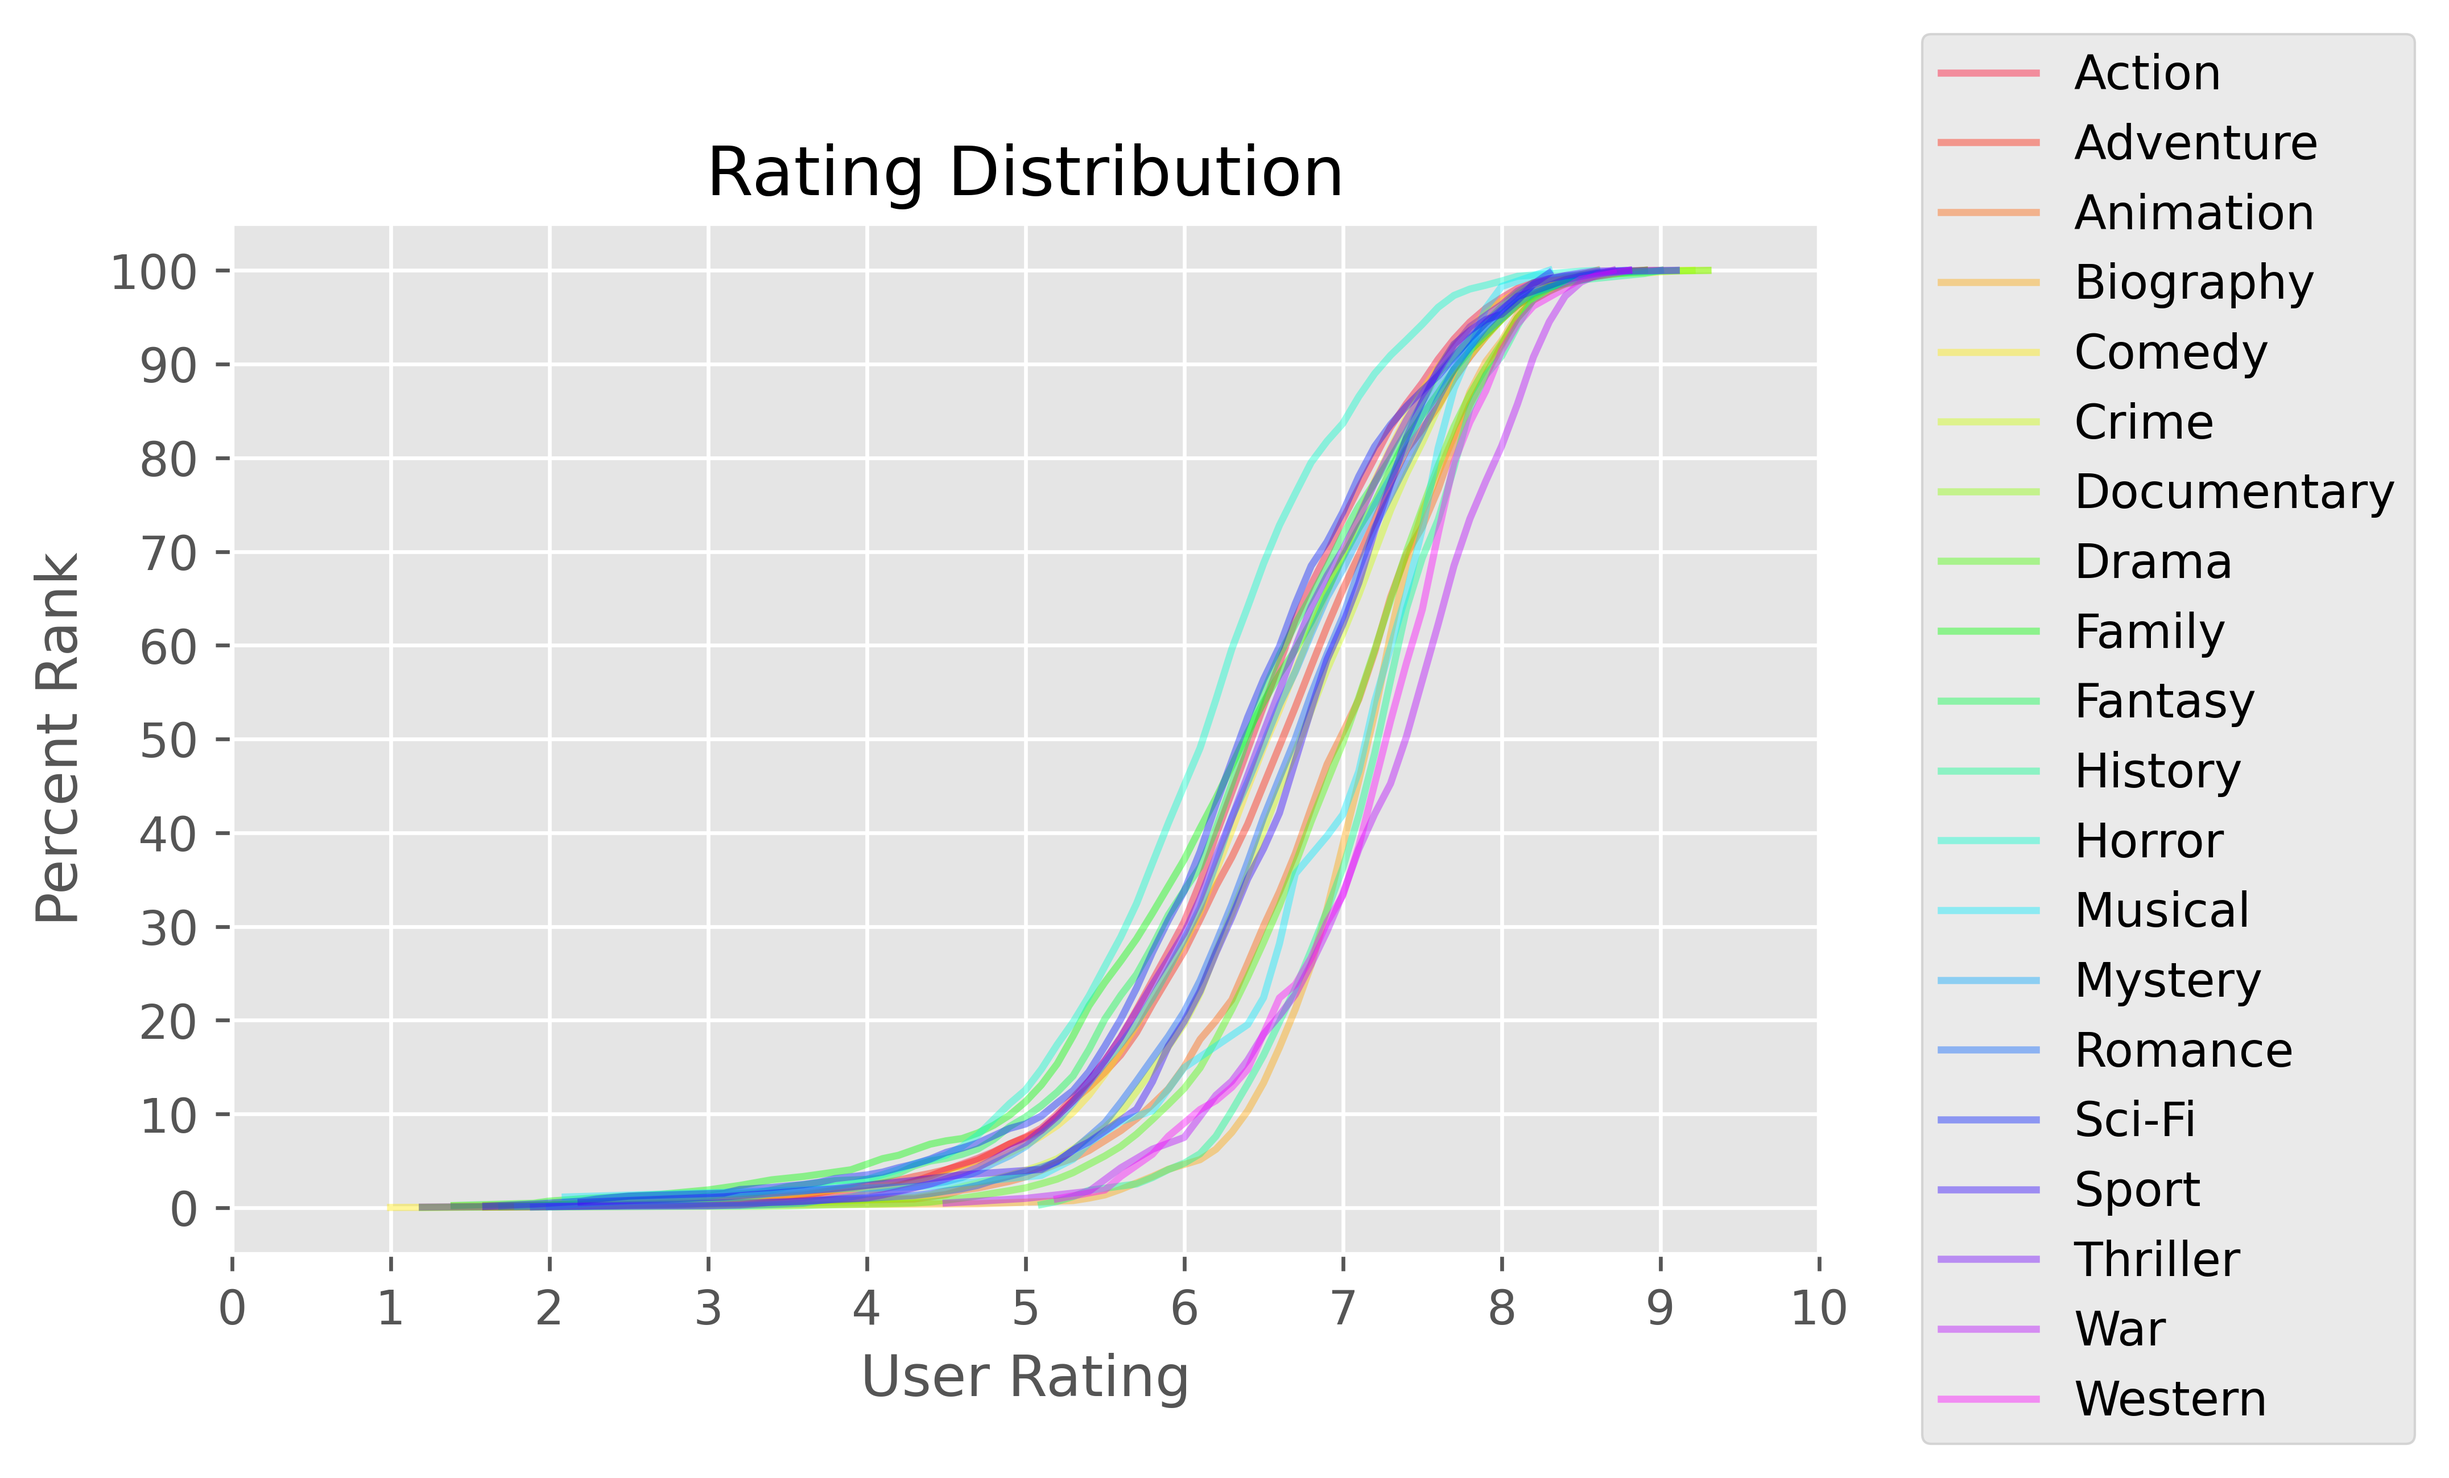
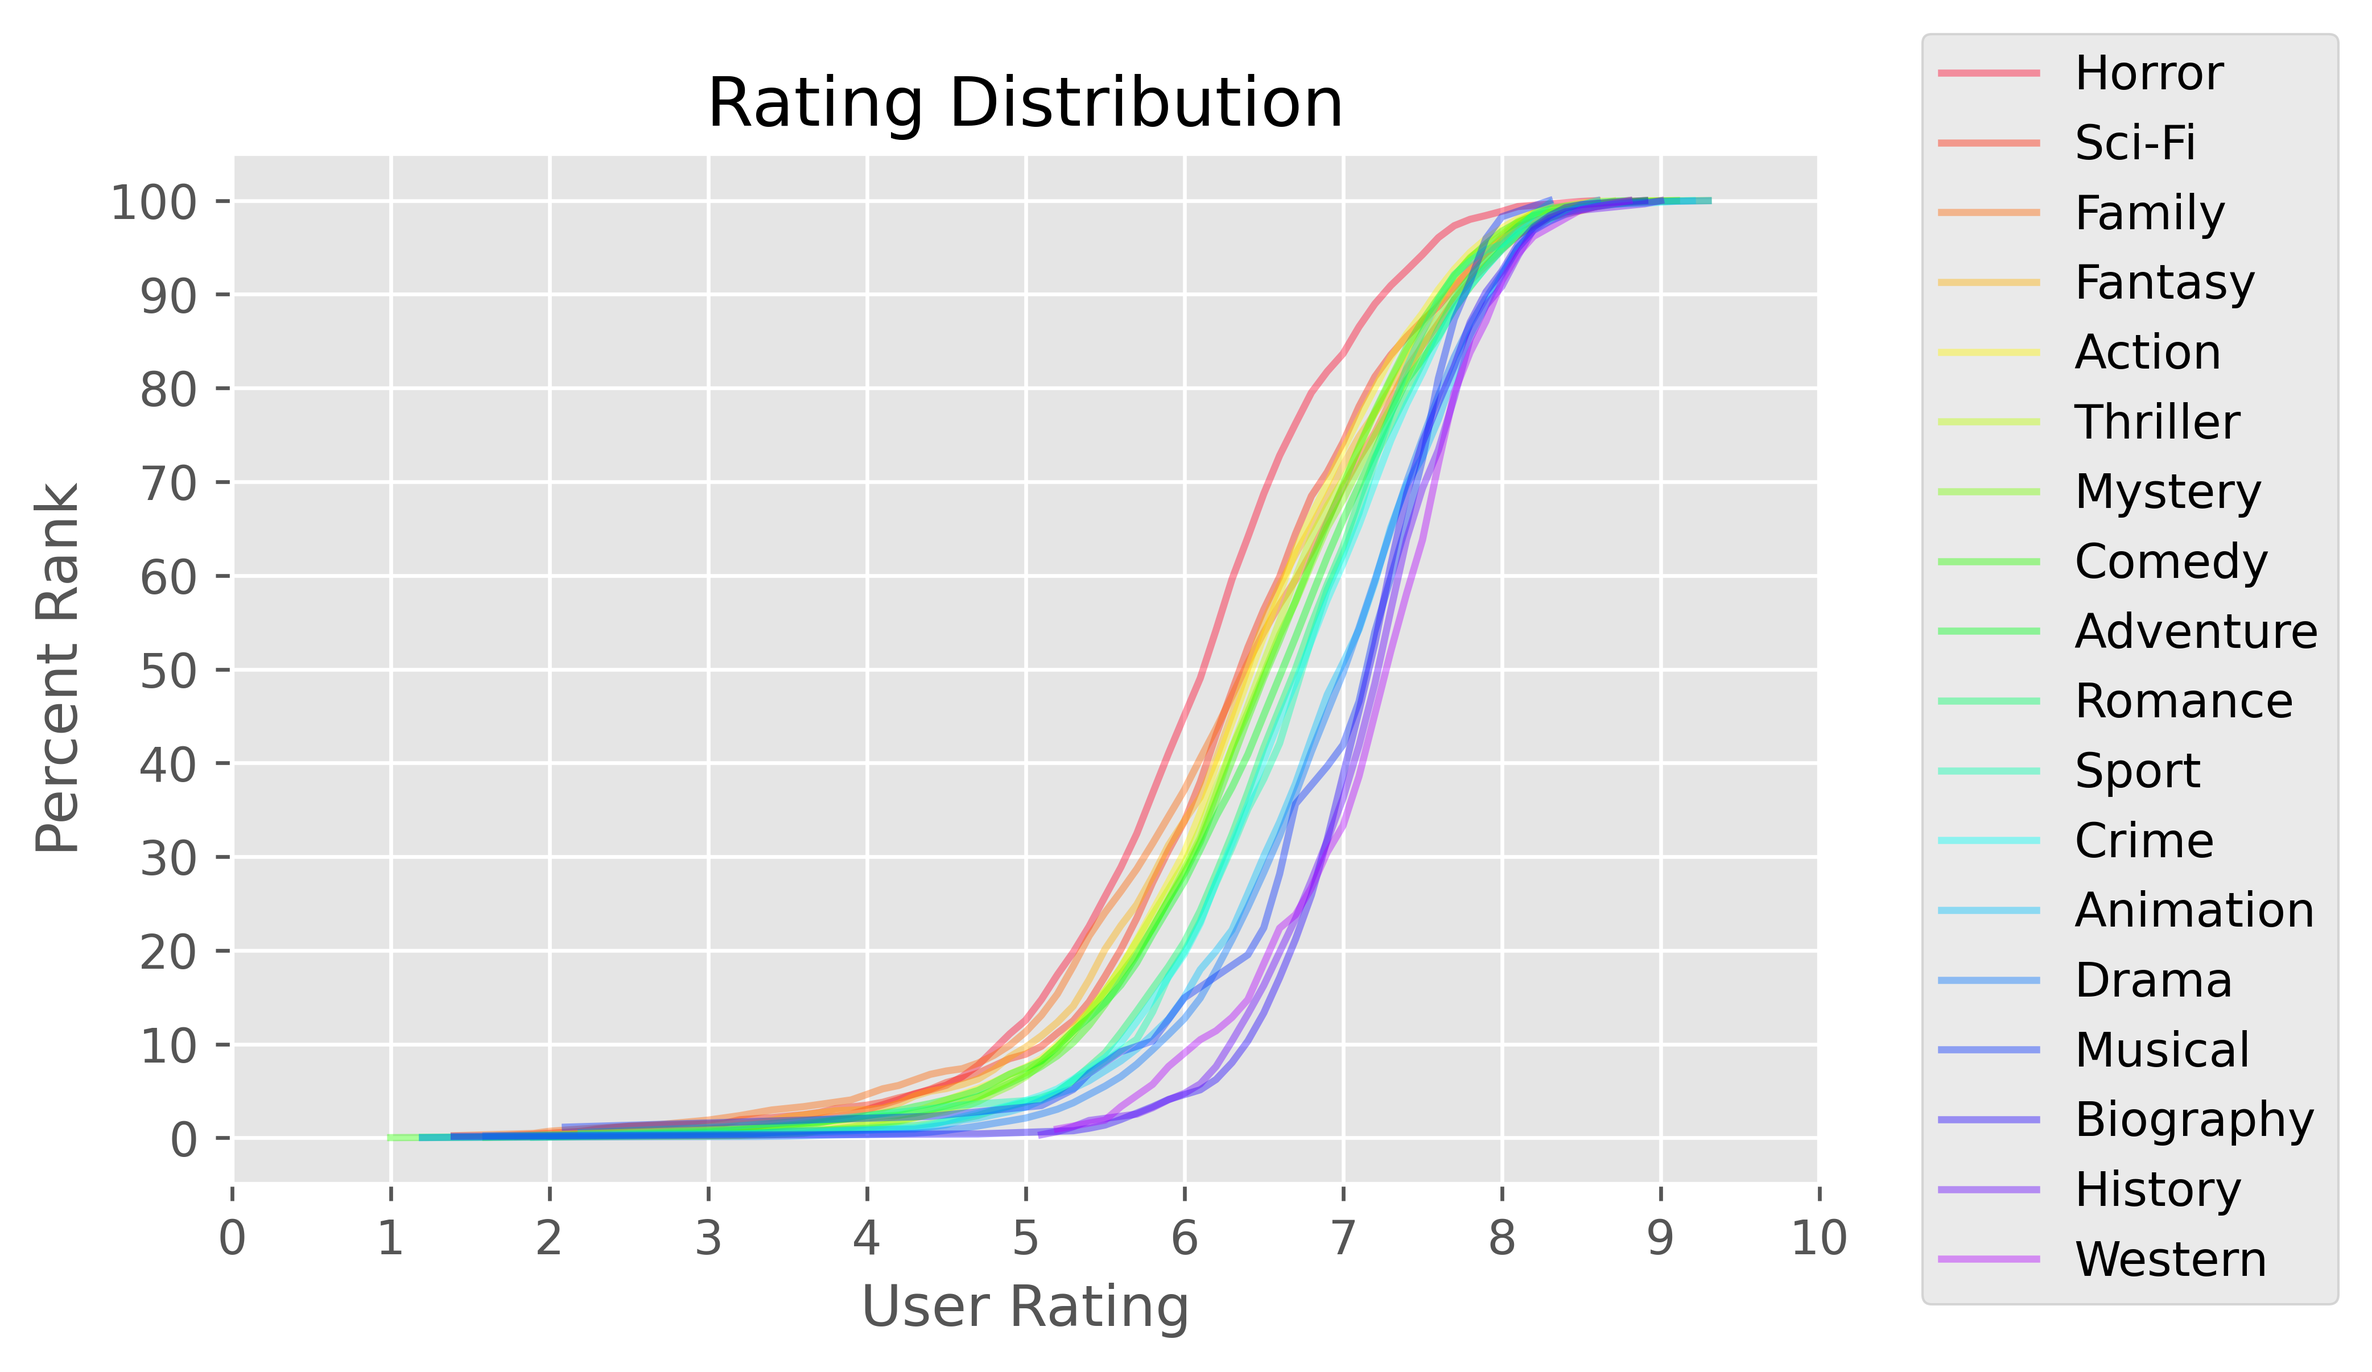
arranged genres by median

diff --git a/rating_plots.py b/rating_plots.py
@@ -42,7 +42,6 @@ genres = [
     'Biography',
     'Comedy',
     'Crime',
-    'Documentary',
     'Drama',
     'Family',
     'Fantasy',
@@ -66,6 +65,19 @@ ORDER BY averageRating ASC, numVotes ASC;
 
 db = pd.read_sql(ratings_sql, cnxn)
 
+# Creating Table of Stats
+
+medianVals = {}
+for genre in genres:
+    genre_db = db[db.genres.str.contains(genre, regex=True, na=False)]
+    genre_db['movierank'] = ((np.arange(len(genre_db))+1)/len(genre_db)*100).round(2)
+    median = genre_db[genre_db.movierank<52][genre_db.movierank>48].averageRating.mean()
+#    medianVals[genre] = median
+    medianVals.setdefault('genre', []).append(genre)
+    medianVals.setdefault('median', []).append(median)
+
+medianVals = pd.DataFrame(medianVals).sort_values('median')
+
 NUM_COLORS = len(genres)
 
 cm = plt.get_cmap('gist_rainbow')
@@ -73,7 +85,7 @@ fig = plt.figure()
 ax = fig.add_subplot(111)
 ax.set_prop_cycle('color', [cm(1.*i/NUM_COLORS) for i in range(NUM_COLORS)])
 
-for genre in genres:
+for genre in medianVals.genre:
     genre_db = db[db.genres.str.contains(genre, regex=True, na=False)]
     genre_db['movierank'] = ((np.arange(len(genre_db))+1)/len(genre_db)*100).round(2)
     genre_db = genre_db.groupby('averageRating')['movierank'].mean()
@@ -86,7 +98,7 @@ for genre in genres:
         plt.xticks(np.arange(0, 11, 1))
         plt.yticks(np.arange(0, 101, 10))
         plt.title('Rating Distribution')
-        plt.savefig('rating_distribution.png', dpi=200, bbox_inches='tight')
+        plt.savefig('rating_distribution.png', dpi=600, bbox_inches='tight')
 
 
 
